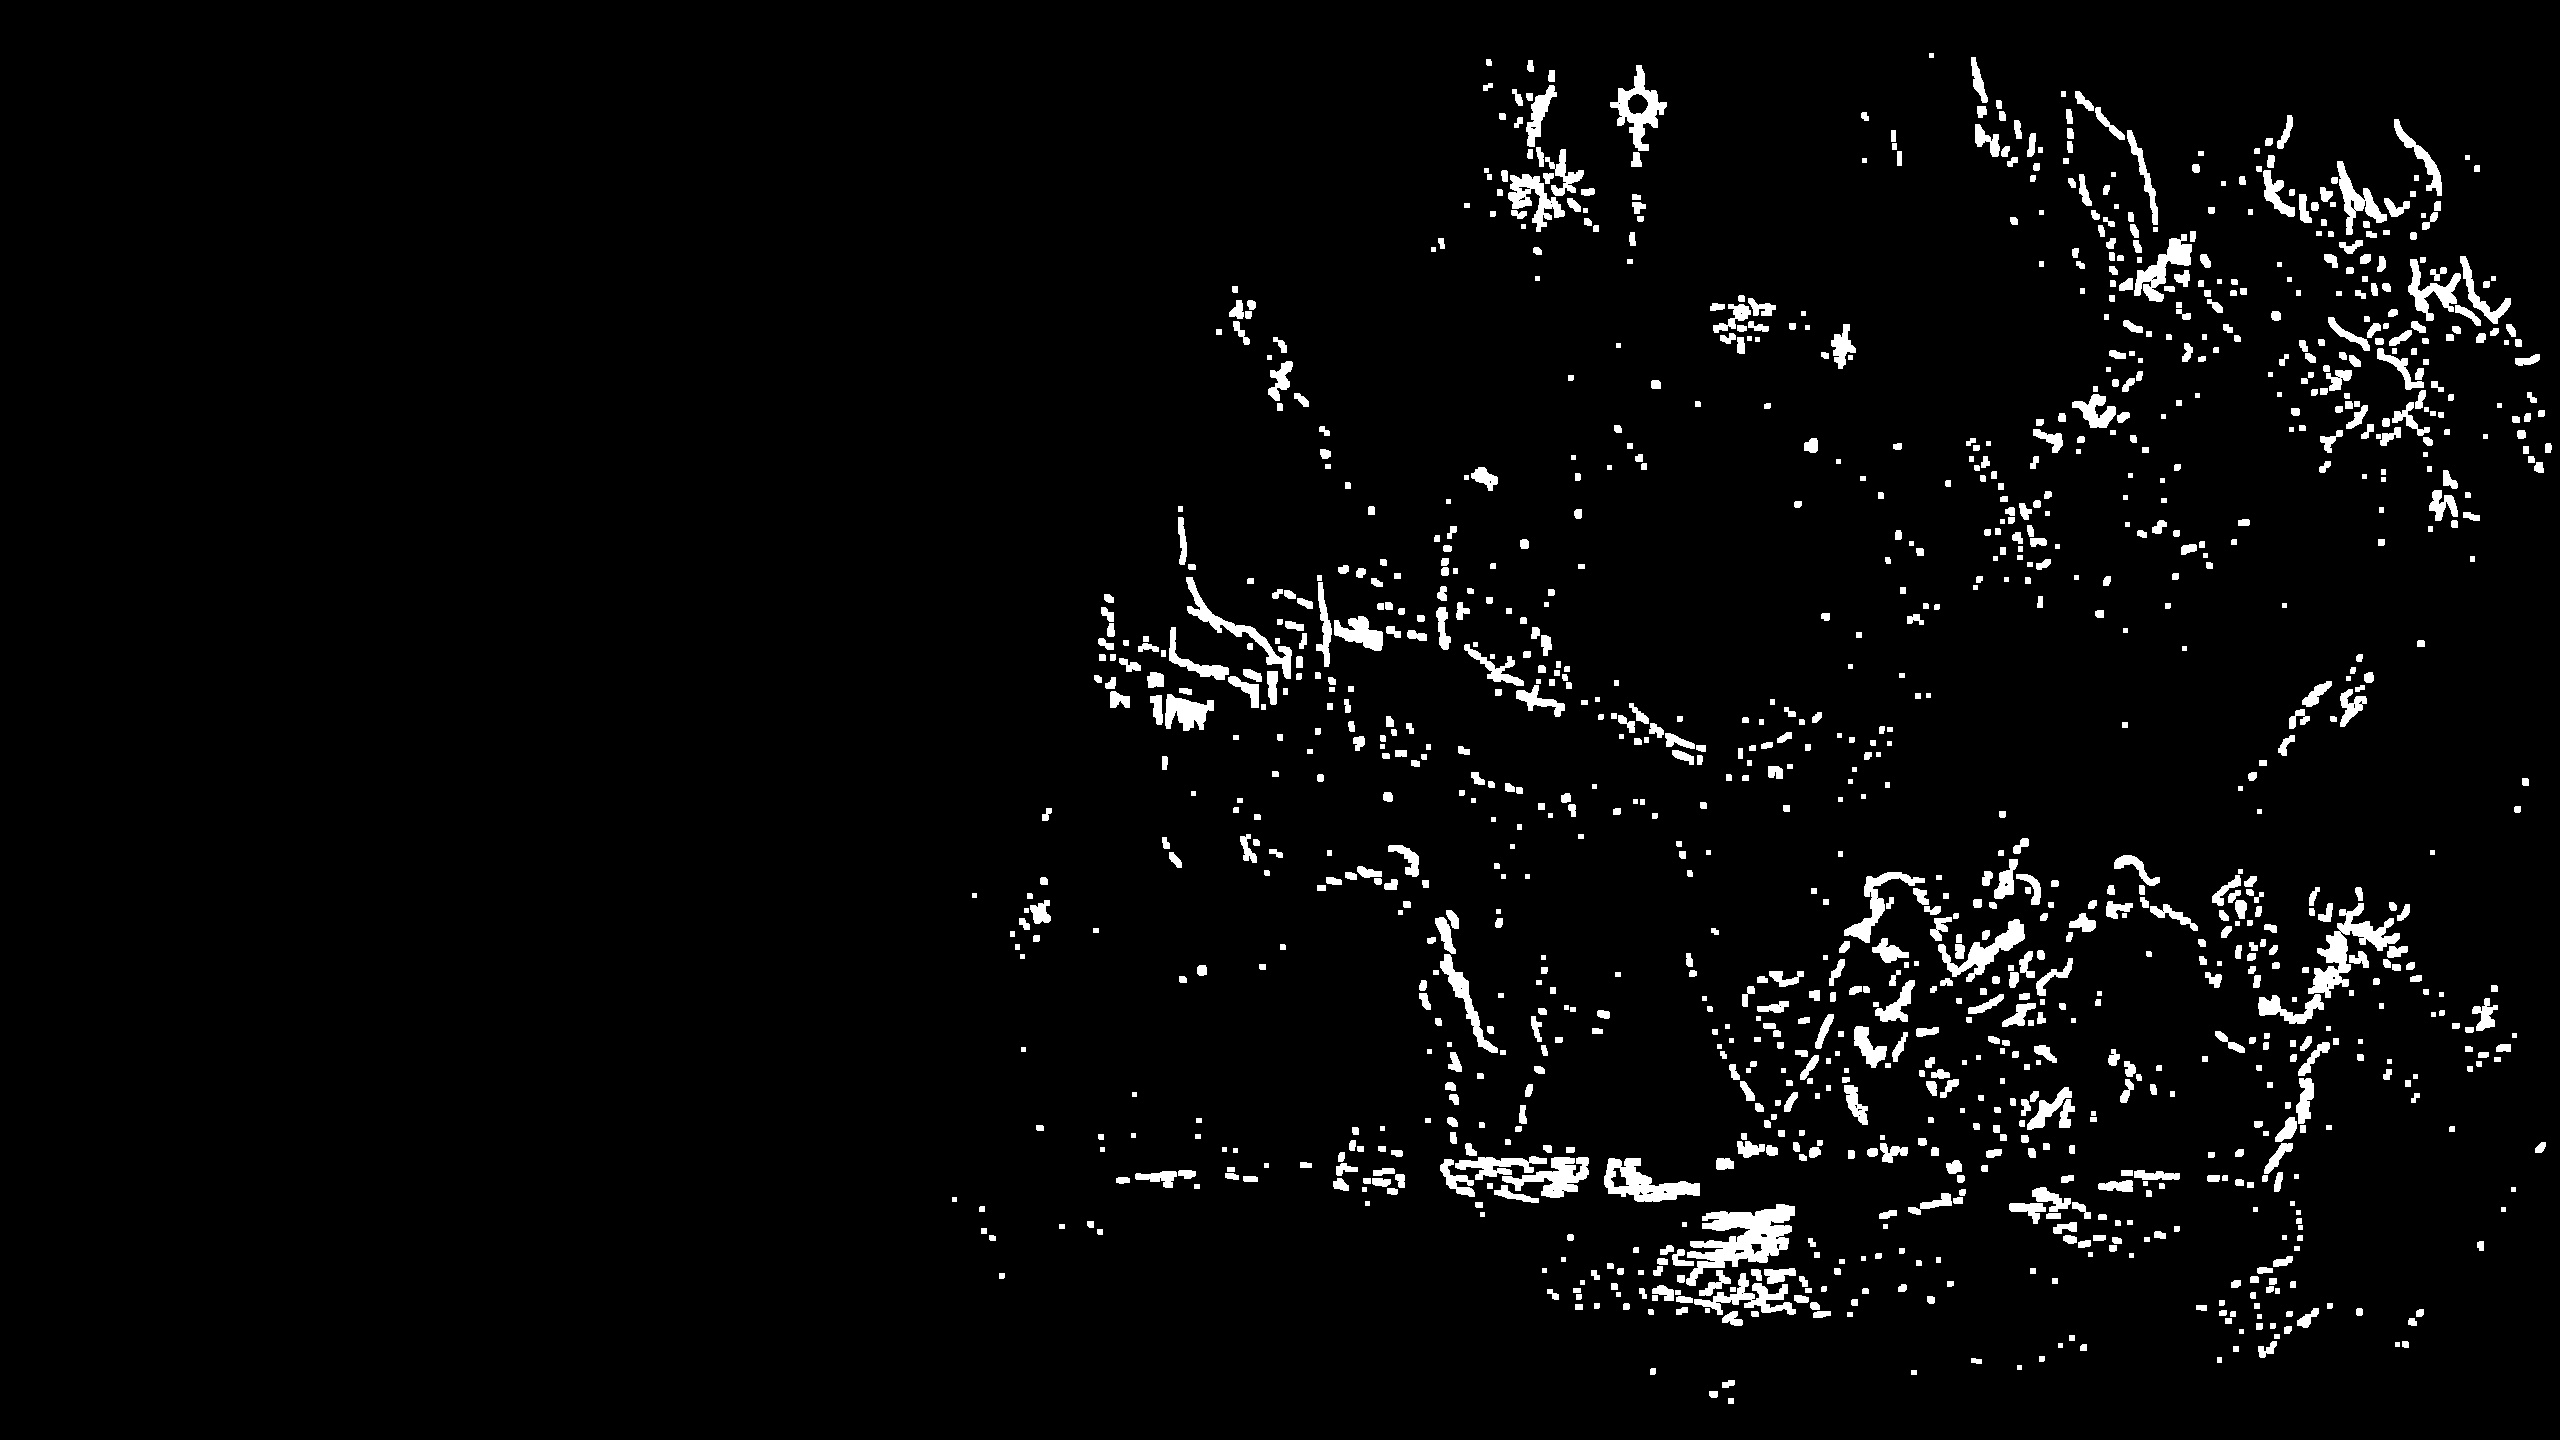
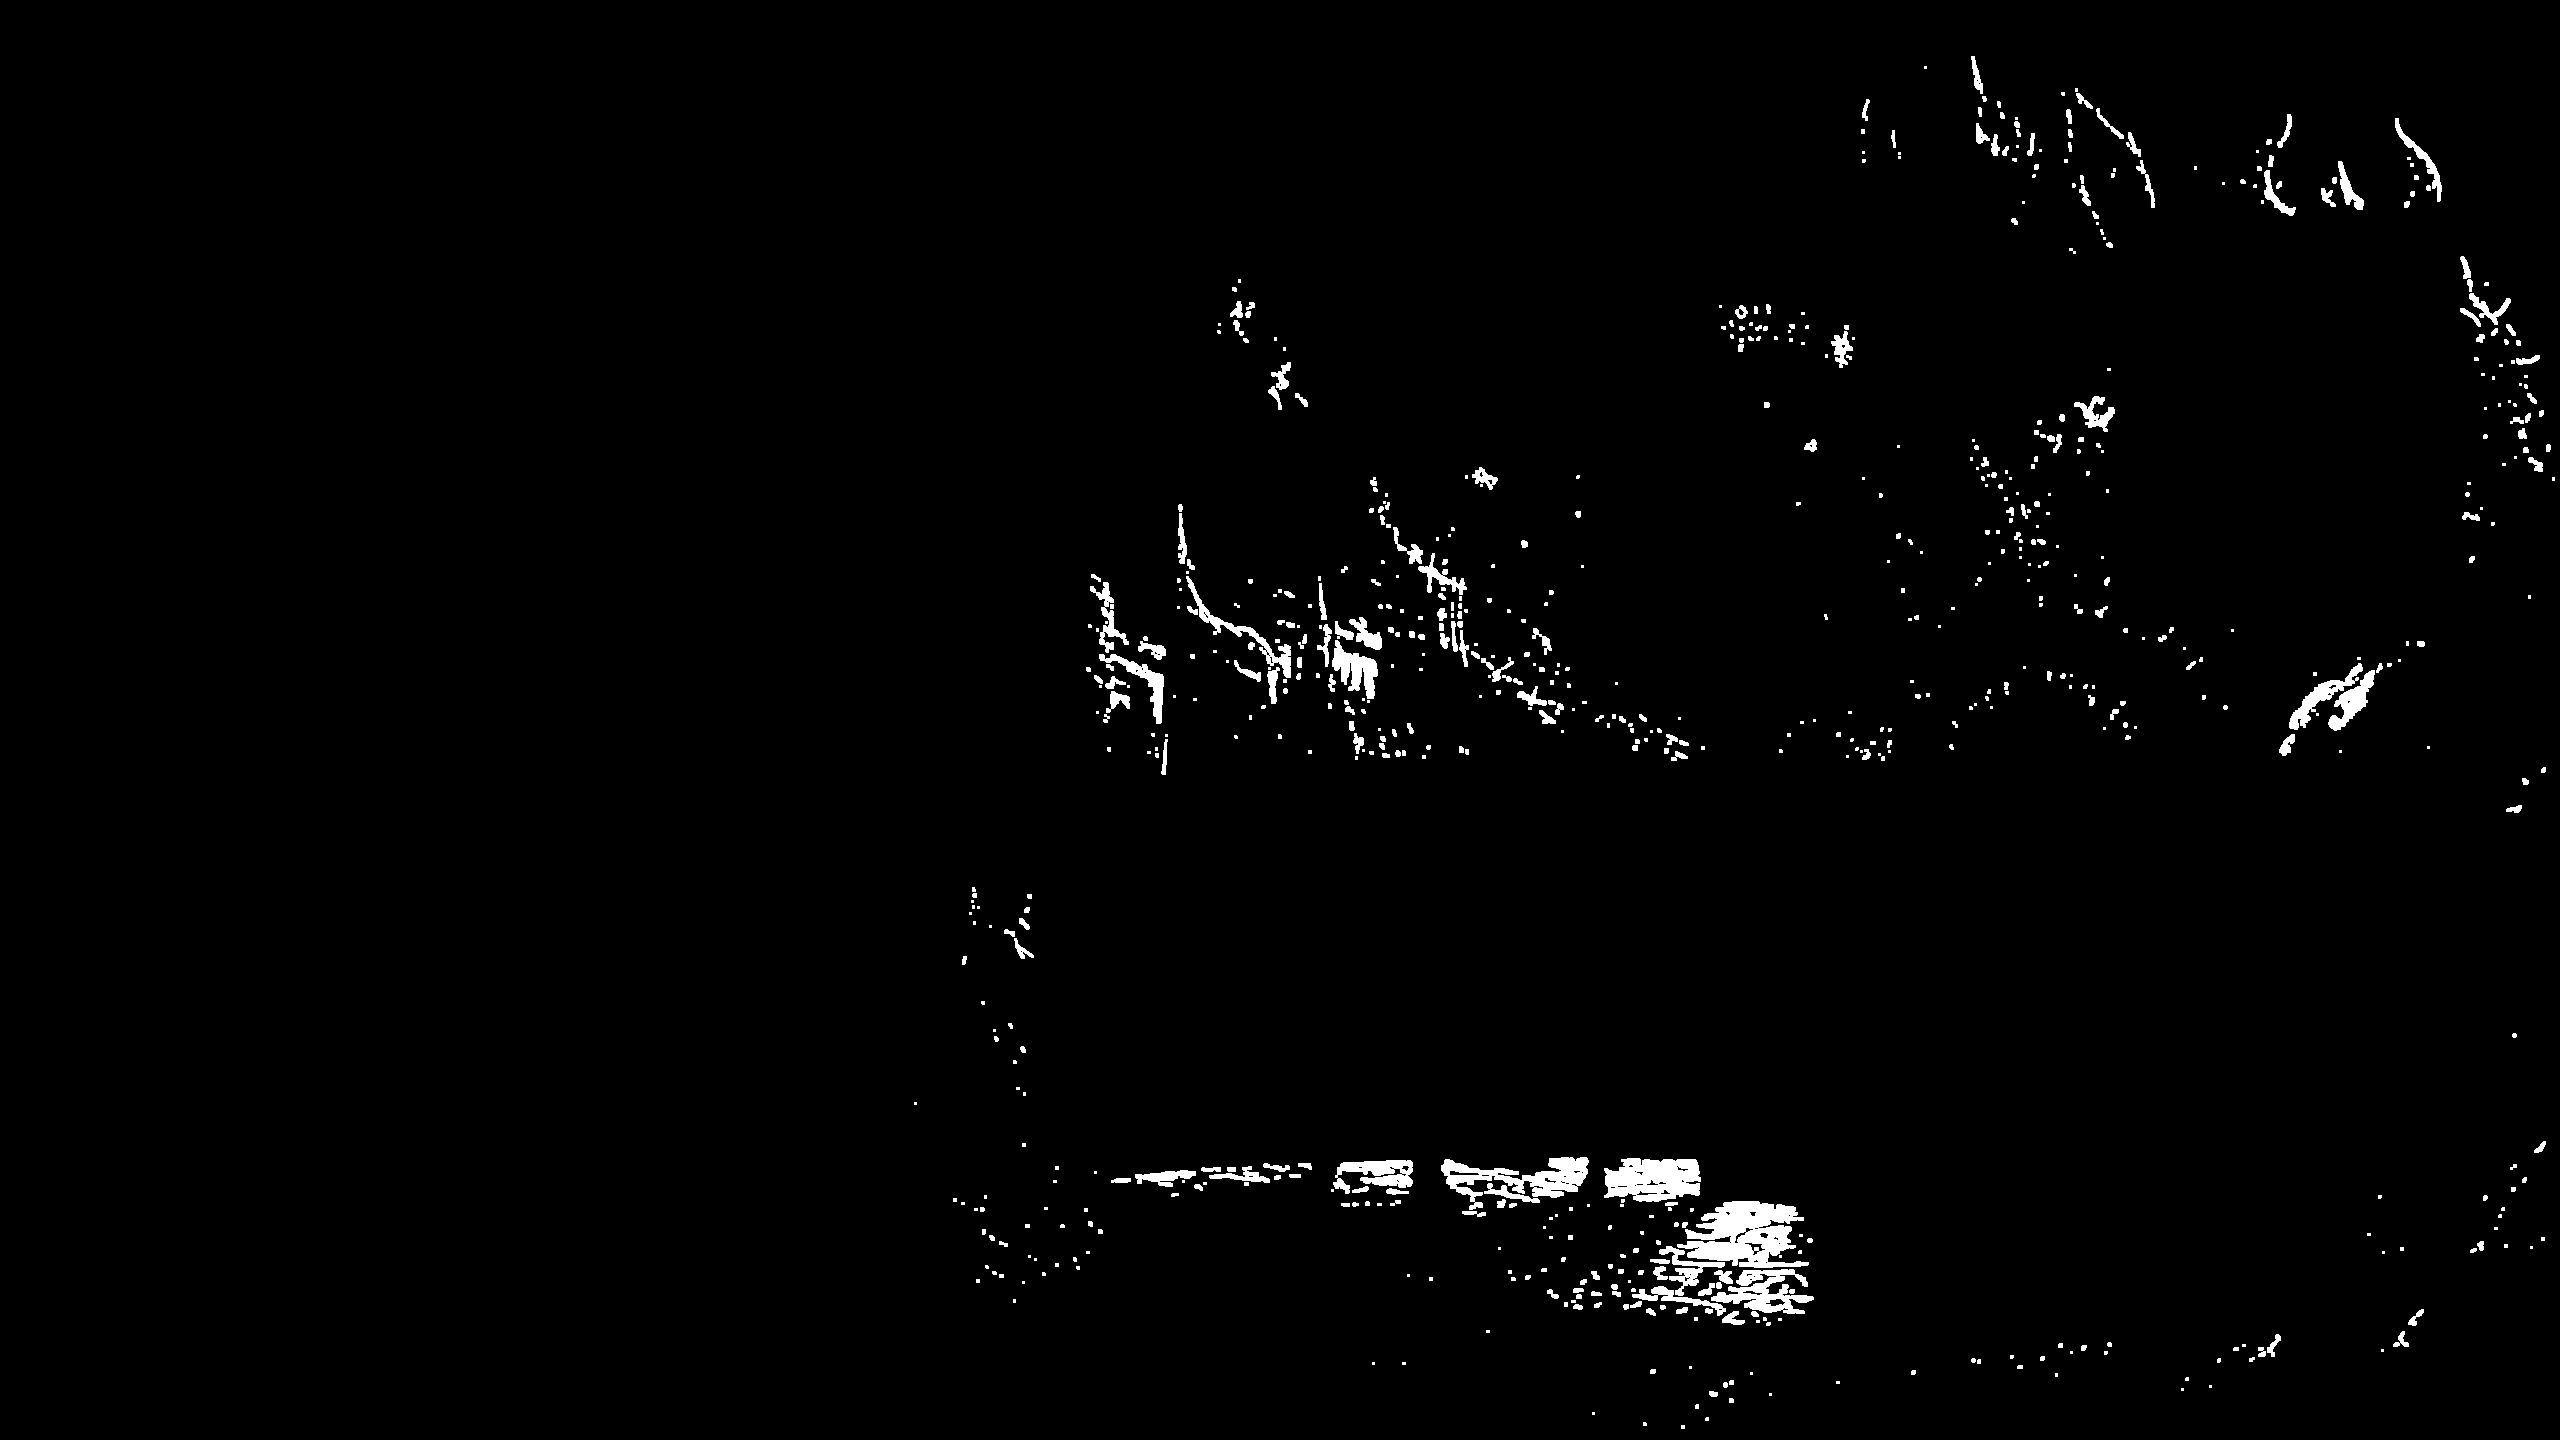
SCRUM-1001 strengthen orange speck cleanup

diff --git a/docs/design/current_game_state.md b/docs/design/current_game_state.md
@@ -164,8 +164,9 @@ fantasy key art без baked UI, со спокойной левой колонк
 smooth-lines ревизией для более плавных контуров облаков, руин, платформы,
 плащей, боссов и monster silhouettes. SCRUM-1001 follow-up также удаляет
 лишние orange ember/spark dots, которые пришли из генерации как частицы/пепел:
-мелкие isolated компоненты заменены локально сглаженным фоном, а крупные golden
-portal/music линии сохранены. Source/reference sheet/backup/preview/safe-zone
+мелкие isolated компоненты нейтрализованы в более тёмную холодную палитру без
+размытия текстуры, а крупные golden portal/music линии сохранены.
+Source/reference sheet/backup/preview/safe-zone
 evidence задокументированы в
 `docs/design/mockups/main_menu_openai_clean_background/spec.md` (SCRUM-1001;
 explicit OpenAI Images override по прямому запросу пользователя). Предыдущий

diff --git a/docs/tasks/codex_design_main_menu_openai_clean_background_task.md b/docs/tasks/codex_design_main_menu_openai_clean_background_task.md
@@ -67,9 +67,9 @@ Done 2026-07-09.
   `docs/design/references/main_menu_openai_clean_background/main_menu_openai_final_smooth_lines.png`.
 - После follow-up фидбека `убрать оранжевые точки / сделать без лишнего шума`
   выполнена локальная cleanup-ревизия: мелкие isolated orange/yellow
-  ember/spark components удалены по цвету/размеру и заменены локально сглаженным
-  фоном; крупные golden portal/music linework сохранены. Финальный runtime
-  source:
+  ember/spark components найдены по цвету/размеру и нейтрализованы в более
+  тёмную холодную палитру без размытия текстуры; крупные golden portal/music
+  linework сохранены. Финальный runtime source:
   `docs/design/references/main_menu_openai_clean_background/main_menu_openai_final_no_orange_noise.png`.
 - Старый runtime background сохранён:
   `docs/design/backups/main_menu_openai_clean_background/main_menu_epic_battle_v3_pre_scrum1001.png`.

diff --git a/docs/design/systems/menus_ui.md b/docs/design/systems/menus_ui.md
@@ -261,9 +261,9 @@ on current runtime character, monster, elite and boss sprite references. The
 final runtime PNG has a grain-reduction pass plus a smooth-lines revision that
 reduces ragged/uneven contours in clouds, stone, ruins, capes, boss armor and
 monster silhouettes while preserving hero/boss readability. The latest
-SCRUM-1001 follow-up removes extra orange ember/spark dot noise by replacing
-small isolated warm components with locally smoothed background while preserving
-large golden portal/music linework.
+SCRUM-1001 follow-up removes extra orange ember/spark dot noise by
+color-neutralizing small isolated warm components into the darker cool palette
+while preserving large golden portal/music linework.
 The calm left button-safe column and readable title-safe area are preserved, the
 asset is prepared for proportional cover-crop rather than one-axis stretching,
 and it contains no baked UI text/buttons/frames/logos. Source, reference sheet,

diff --git a/docs/design/mockups/main_menu_openai_clean_background/spec.md b/docs/design/mockups/main_menu_openai_clean_background/spec.md
@@ -81,8 +81,9 @@ main-menu composition and safe zones.
 
 The orange dots came from the generated background as ember/spark/lava-particle
 noise. The cleanup pass builds a warm orange/yellow candidate mask, keeps large
-connected golden linework such as portal circles and music curves, and replaces
-only small isolated components with a locally smoothed background. Evidence:
+connected golden linework such as portal circles and music curves, and
+color-neutralizes only small isolated components into the darker cool palette
+without blurring the surrounding texture. Evidence:
 `main_menu_openai_orange_noise_mask.png` and
 `main_menu_openai_no_orange_noise_comparison.png`.
 
